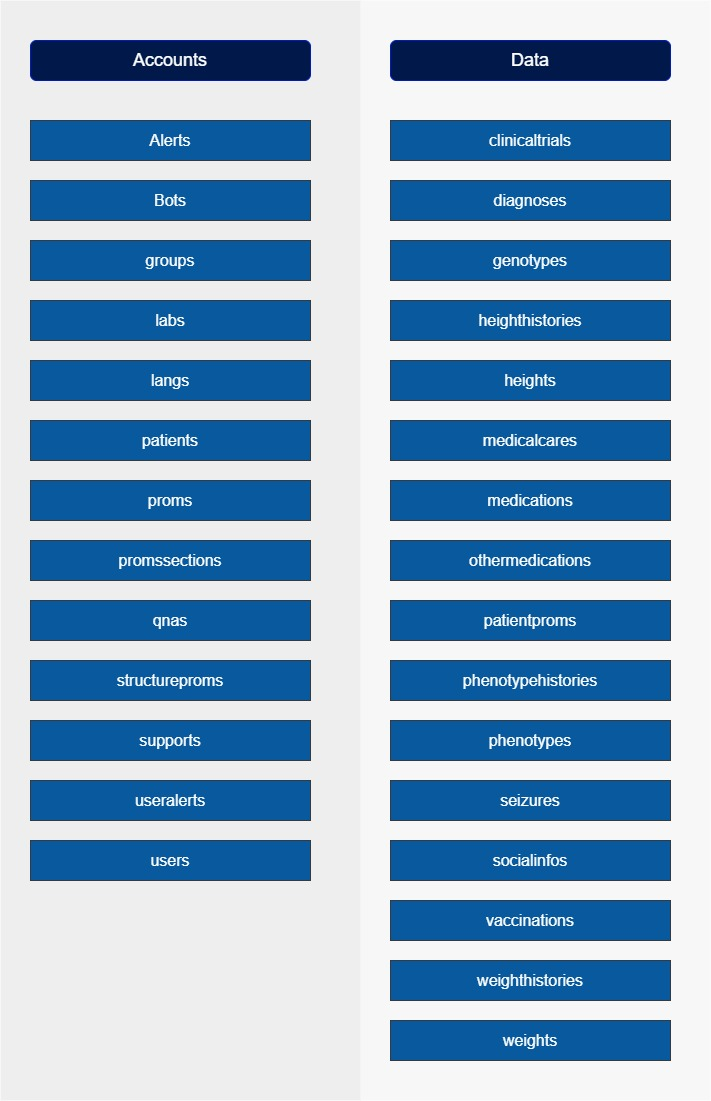
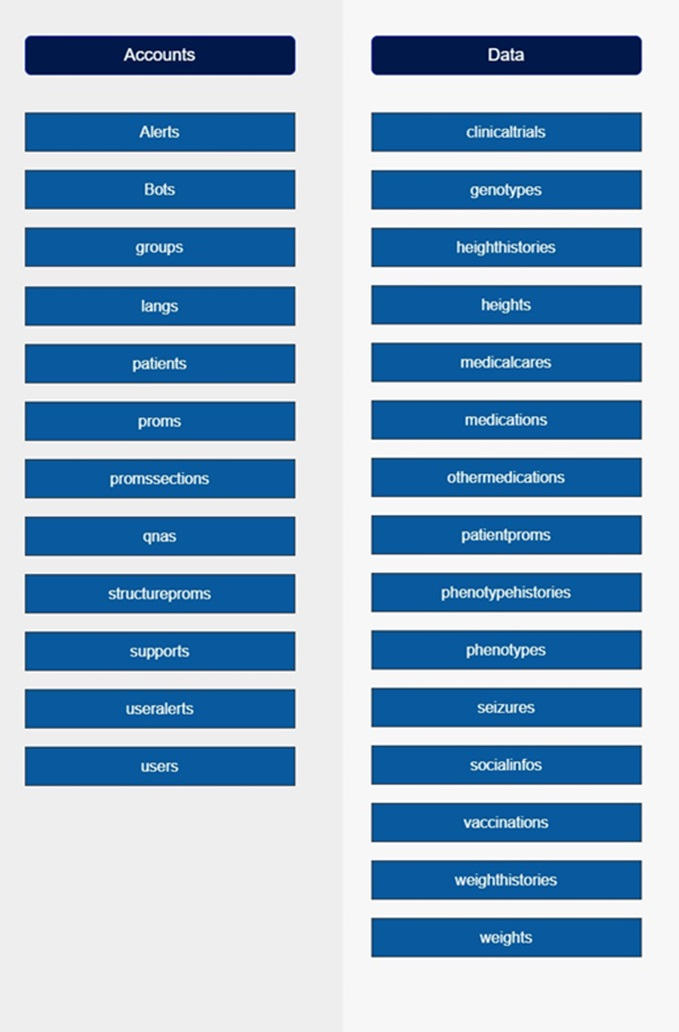
revision part 4 - Point 2 finished

diff --git a/source/pages/SW/Code.md b/source/pages/SW/Code.md
@@ -610,25 +610,26 @@ const AlertsSchema = Schema({
     launchDate: {type: Date, default: Date.now},
     endDate: {type: Date},
     url: {type:Object, default:[]},
-	role: { type: String, enum: ['SuperAdmin', 'Admin', 'User', 'Clinical', 'Lab'], default: 'User'},
+    role: { type: String, enum: ['SuperAdmin', 'Admin', 'User'], default: 'User'},
     color: {type:String, default:""},
     logo: {type:String, default:""},
     importance: {type:String, default:""},
     receiver: {type:Object, default:[]},
-	createdBy: { type: Schema.Types.ObjectId, ref: "Group"}
+    createdBy: { type: Schema.Types.ObjectId, ref: "Group"}
 })
+
 ```
 
 **Bot**
 This collection stores the information exchanged between the bot and a user when using the Healthbot direct question scenario.
 ```
 const BotSchema = Schema({
-	lang: {type:String, default:""},
+    lang: {type:String, default:""},
     data: {type: Object, default: []},
-	date: {type: Date, default: Date.now},
-	curatedBy: {type:String, default:""},
-	type: String,
-	createdBy: { type: Schema.Types.ObjectId, ref: "Group"}
+    date: {type: Date, default: Date.now},
+    curatedBy: {type:String, default:""},
+    type: String,
+    createdBy: { type: Schema.Types.ObjectId, ref: "Group"}
 })
 
 ```
@@ -648,27 +649,15 @@ const GroupSchema = Schema({
 })
 ```
 
-**Lab**
-Same as the last one but with the labs.
-```
-const LabSchema = Schema({
-	name: {
-		type: String,
-		index: true,
-		unique: true
-  	}
-})
-```
-
 **Lang**
 There will be one entry in this collection for each language you want to use on the Health29 platform
 ```
 const LangSchema = Schema({
-	name: {	type: String,	unique: true,	required: true },
-	code: {	type: String,	index: true,	unique: true,	required: true }
-}, 
-{ versionKey: false // You should be aware of the outcome after set to false
+    name: {type: String, unique: true, required: true },
+    code: { type: String,	index: true, unique: true, required: true }
+}, { versionKey: false // You should be aware of the outcome after set to false
 })
+
 ```
 **Patient**
 In this collection the data of the patients registered in the platform are stored.
@@ -686,28 +675,29 @@ const ParentSchema = Schema({
 })
 
 const PatientSchema = Schema({
-	patientName: String,
-	surname: String,
-	birthDate: Date,
-	citybirth: String,
-	provincebirth: String,
-	countrybirth: String,
-	street: String,
-	postalCode: String,
-	city: String,
-	province: String,
-	country: String,
-	phone1: String,
-	phone2: String,
-	gender: String,
-	siblings: [SiblingSchema],
-	parents: [ParentSchema],
-	createdBy: { type: Schema.Types.ObjectId, ref: "User"},
-	death: Date,
-	notes: {type: String, default: ''},
-	answers: {type: Object, default: []},
-	subscriptionToGroupAlerts:{type:Boolean,default:true}
+    patientName: String,
+    surname: String,
+    birthDate: Date,
+    citybirth: String,
+    provincebirth: String,
+    countrybirth: String,
+    street: String,
+    postalCode: String,
+    city: String,
+    province: String,
+    country: String,
+    phone1: String,
+    phone2: String,
+    gender: String,
+    siblings: [SiblingSchema],
+    parents: [ParentSchema],
+    createdBy: { type: Schema.Types.ObjectId, ref: "User"},
+    death: Date,
+    notes: {type: String, default: ''},
+    answers: {type: Object, default: []},
+    subscriptionToGroupAlerts:{type:Boolean,default:true}
 })
+
 ```
 
 **Prom**
@@ -739,12 +729,13 @@ const PromSchema = Schema({
 Each of the above datapoints is encapsulated within a section. The different sections or groupings of datapoints that can appear on the platform for each group of patients are saved in this collection.
 ```
 const PromSectionSchema = Schema({
-	name: String,
-	description: String,
-	enabled: {type: Boolean, default: true},
-	order: {type: Number, default: 0},
-	createdBy: { type: Schema.Types.ObjectId, ref: "Group"}
+    name: String,
+    description: String,
+    enabled: {type: Boolean, default: true},
+    order: {type: Number, default: 0},
+    createdBy: { type: Schema.Types.ObjectId, ref: "Group"}
 })
+
 ```
 
 **Qna**
@@ -756,6 +747,7 @@ const QnaSchema = Schema({
 	lang: { type: String, required: true},
 	categories:{type:Object,default:[]}
 })
+
 ```
 
 **StructureProms**
@@ -826,7 +818,7 @@ const UserSchema = Schema({
         match: [/^\w+([\.-]?\w+)*@\w+([\.-]?\w+)*(\.\w{2,3})+$/, 'Please fill a valid email address']
     },
 	password: { type: String, select: false, required: true, minlength: [8,'Password too short']},
-	role: { type: String, required: true, enum: ['SuperAdmin', 'Admin', 'User', 'Clinical', 'Lab'], default: 'User'},
+	role: { type: String, required: true, enum: ['Researcher', 'Admin', 'User'], default: 'User'},
 	group: { type: String, required: true, default: 'None'},
 	confirmed: {type: Boolean, default: false},
 	confirmationCode: String,
@@ -847,6 +839,7 @@ const UserSchema = Schema({
 	authyId:{type:String,default:null},
 	authyDeviceId:{type:Object,default:[]},
 	phone: String,
+	subgroup: Number,
 })
 ```
 
@@ -865,23 +858,6 @@ const ClinicalTrialSchema = Schema({
 	date: Date,
 	createdBy: { type: Schema.Types.ObjectId, ref: "Patient"}
 })
-```
-
-Diagnosis
-```
-const DiagnosisSchema = Schema({
-	hasDiagnosis: {type: Boolean, default: false},
-	previousDiagnosis: {type: String, default: null},
-	identifiedGene: {type: String, default: null},
-	evaluation: String,
-	notes: {type: String, default: ''},
-	infoGenesAndConditionsExomizer: {type: Object, default: []},
-	infoGenesAndConditionsPhenolyzer: {type: Object, default: []},
-	relatedConditions: {type: Object, default: []},
-	hasVcf: {type: Boolean, default: false},
-	createdBy: { type: Schema.Types.ObjectId, ref: "Patient"}
-})
-
 ```
 
 Genotype
@@ -930,32 +906,40 @@ const MedicalCareSchema = Schema({
 Medication
 ```
 const MedicationSchema = Schema({
-	drug: Object,
-	dose: String,
-	startDate: {type: Date, default: Date.now},
-	endDate: {type: Date, default: null},
-	sideEffects: {type: Object, default: null},
-	adverseEffects: Object,
-	compassionateUse: {type: String, default: ''},
-	vaccinations: String,
-	vaccinationDate: {type: Date, default: Date.now},
-	notes: {type: String, default: ''},
-	freesideEffects: {type: String, default: ''},
-	createdBy: { type: Schema.Types.ObjectId, ref: "Patient"}
+    drug: Object,
+    dose: String,
+    startDate: {type: Date, default: Date.now},
+    endDate: {type: Date, default: null},
+    sideEffects: {type: Object, default: null},
+    schedule: String,
+    otherSchedule: String,
+    adverseEffects: Object,
+    compassionateUse: {type: String, default: ''},
+    vaccinations: String,
+    vaccinationDate: {type: Date, default: Date.now},
+    notes: {type: String, default: ''},
+    freesideEffects: {type: String, default: ''},
+    createdBy: { type: Schema.Types.ObjectId, ref: "Patient"}
 })
+
 ```
 
 Othermedications
 ```
 const OtherMedicationSchema = Schema({
-	name: String,
-	dose: String,
-	startDate: {type: Date, default: Date.now},
-	endDate: {type: Date, default: null},
-	type: String,
-	notes: String,
-	createdBy: { type: Schema.Types.ObjectId, ref: "Patient"}
+    name: String,
+    dose: String,
+    startDate: {type: Date, default: Date.now},
+    endDate: {type: Date, default: null},
+    type: String,
+    compassionateUse: {type: String, default: ''},
+    freesideEffects: {type: String, default: ''},
+    schedule: String,
+    otherSchedule: String,
+    notes: String,
+    createdBy: { type: Schema.Types.ObjectId, ref: "Patient"}
 })
+
 ```
 
 Patient-proms
